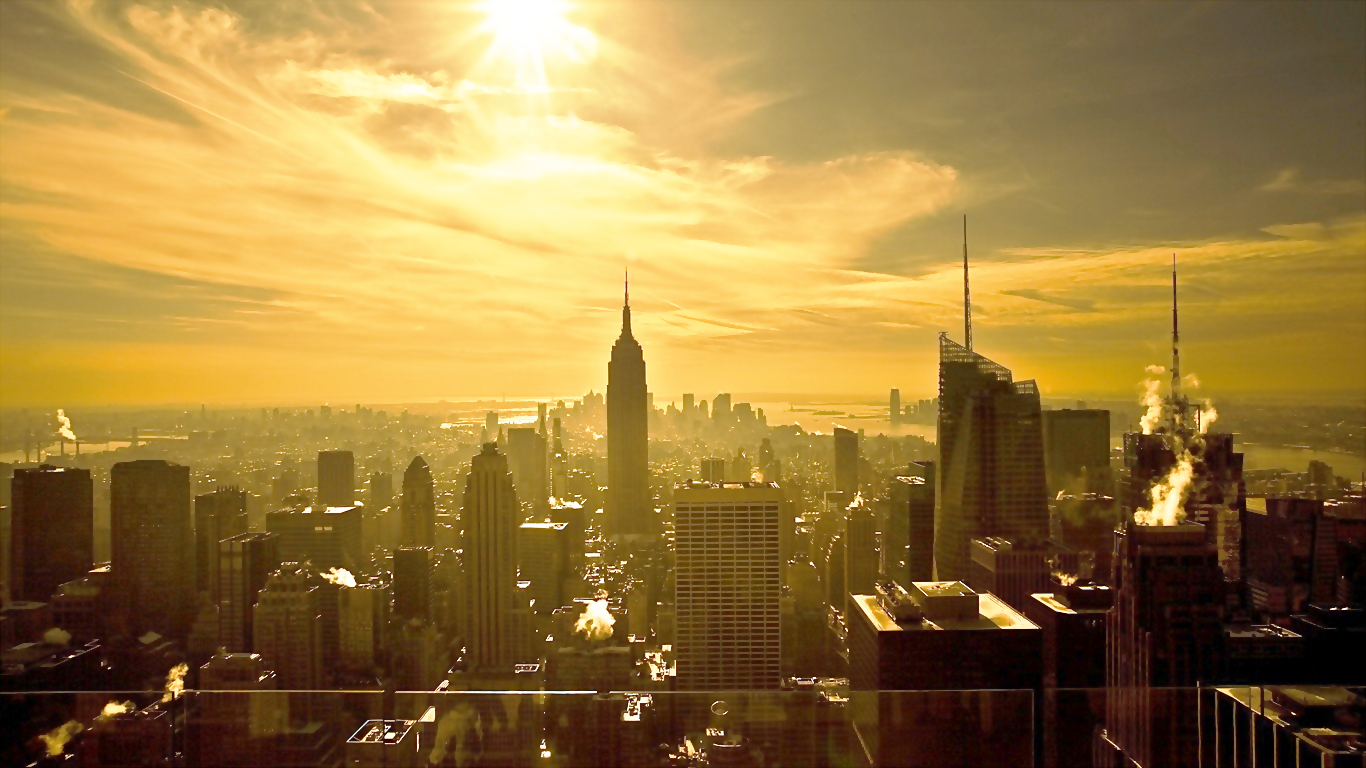
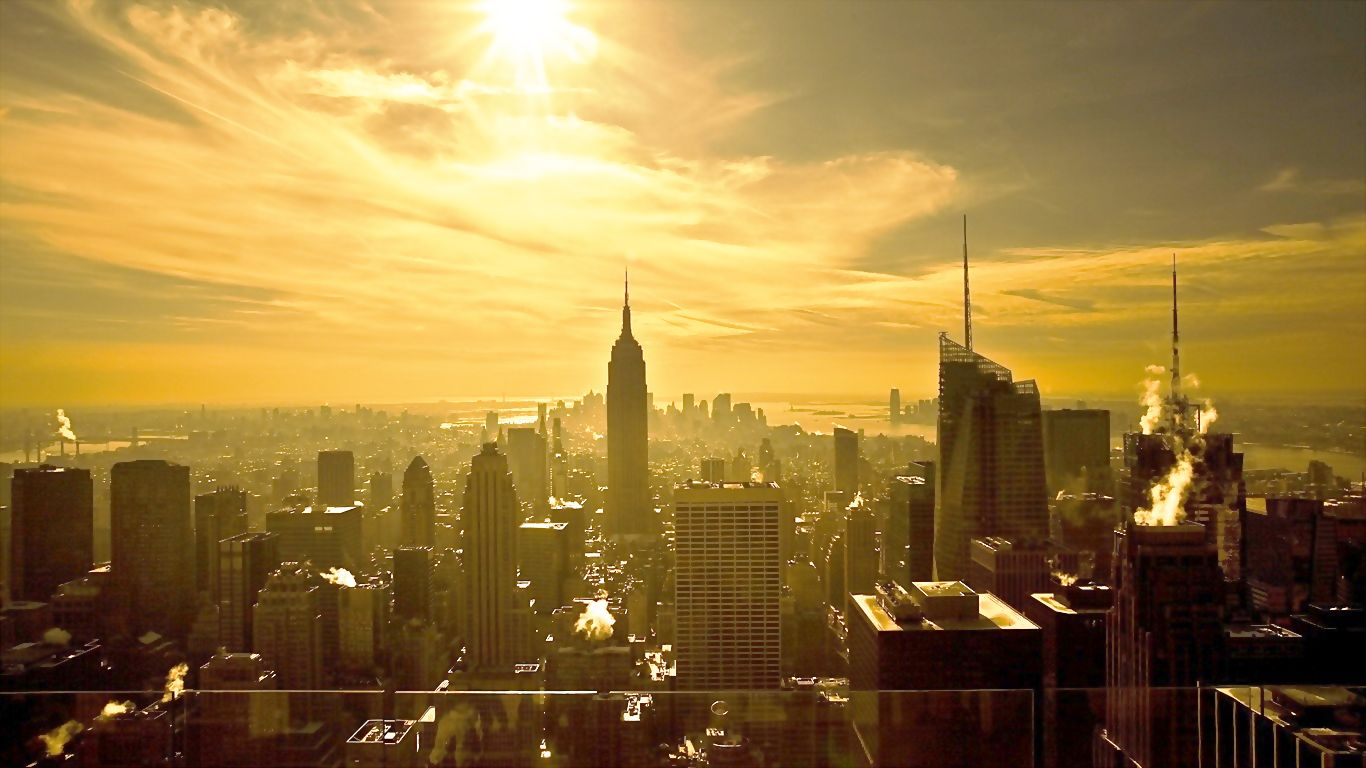
compressed size of background picture on index page

Changed region(s): [[0.4305, 0.7188, 0.4612, 0.7812], [0.3997, 0.625, 0.4305, 0.6875], [0.4612, 0.8438, 0.4919, 0.875]]

diff --git a/web/src/main/webapp/resources/css/index.css b/web/src/main/webapp/resources/css/index.css
@@ -1,10 +1,13 @@
-html,
-body {
+html{
     height: 100%;
     background-image: url('../images/indexbackground.png');
 	background-attachment: fixed;
 	background-repeat: no-repeat;
 	background-size: cover;
+}
+
+body{
+	background: inherit;
 }
 
 .indexHeader{
